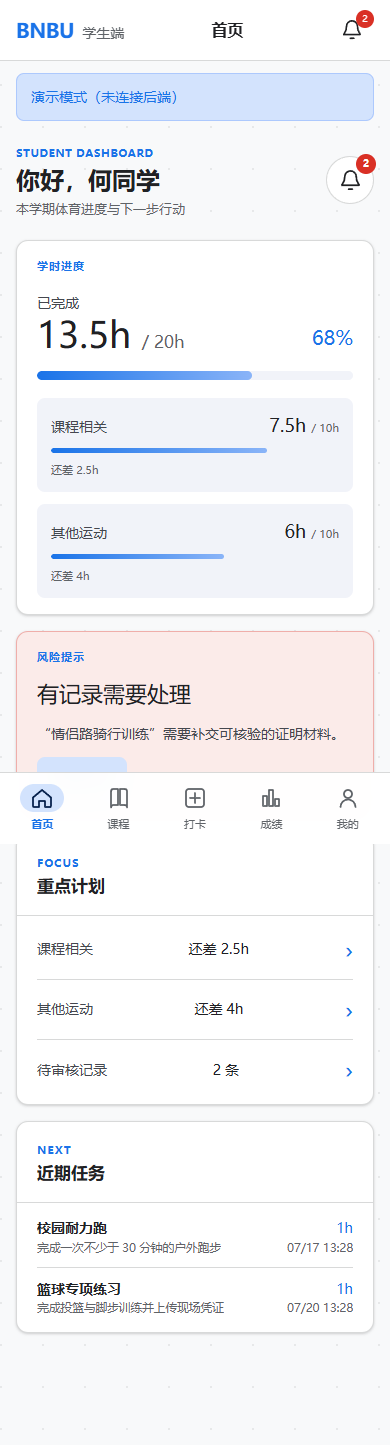
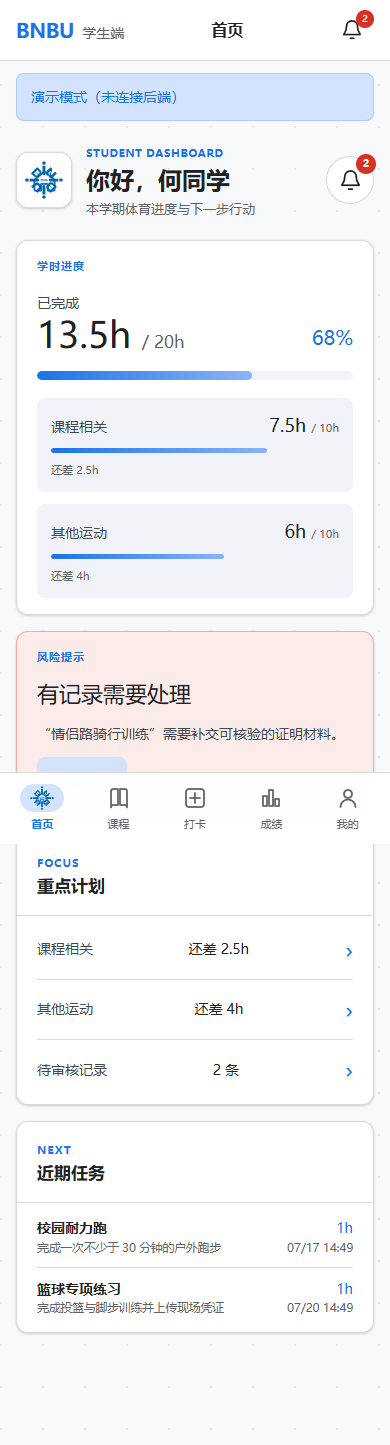
feat(student-web): add BNBU emblem to home

Changed region(s): [[0.0308, 0.0934, 0.6462, 0.1557], [0.8615, 0.8408, 0.8923, 0.872], [0.0923, 0.5294, 0.1231, 0.5606]]

diff --git a/frontend/student/styles.css b/frontend/student/styles.css
@@ -197,7 +197,13 @@ button { min-height: 44px; }
 
 .dashboard-page { gap: 20px; }
 .dashboard-header { display: flex; align-items: center; justify-content: space-between; gap: 16px; padding-top: 4px; }
+.dashboard-identity { display: flex; min-width: 0; align-items: center; gap: 14px; }
+.dashboard-identity > div { min-width: 0; }
 .dashboard-header h1 { margin-top: 3px; }
+.brand-mark { position: relative; display: grid; flex: 0 0 auto; place-items: center; overflow: hidden; }
+.brand-mark-fallback { position: absolute; inset: 25%; width: 50%; height: 50%; color: var(--primary); }
+.brand-mark-image { position: relative; z-index: 1; display: block; width: 100%; height: 100%; object-fit: contain; }
+.dashboard-emblem { width: 56px; height: 56px; padding: 8px; border: 1px solid var(--border); border-radius: 12px; background: var(--surface); box-shadow: var(--shadow); }
 .icon-button { position: relative; display: grid; flex: 0 0 48px; width: 48px; min-height: 48px; padding: 0; place-items: center; border: 1px solid var(--border); border-radius: 50%; color: var(--text); background: var(--surface); cursor: pointer; }
 .icon-button svg { width: 23px; height: 23px; }
 .notification-button span { position: absolute; top: -3px; right: -3px; display: grid; min-width: 20px; height: 20px; padding: 0 5px; place-items: center; border-radius: 99px; color: var(--on-danger); background: var(--danger); font-size: 10px; font-weight: 700; }
@@ -248,8 +254,10 @@ button { min-height: 44px; }
 }
 .nav-button { display: grid; place-items: center; align-content: center; gap: 3px; min-width: 0; color: var(--muted); border: 0; background: transparent; font-size: 11px; cursor: pointer; }
 .nav-icon { width: 24px; height: 24px; padding: 2px 10px; box-sizing: content-box; border-radius: 999px; }
+.nav-brand-mark { width: 24px; height: 24px; padding: 2px 10px; box-sizing: content-box; border-radius: 999px; opacity: .72; }
 .nav-button.is-active { color: var(--primary); font-weight: 600; }
-.nav-button.is-active .nav-icon { color: var(--on-primary-container); background: var(--primary-container); }
+.nav-button.is-active .nav-icon,.nav-button.is-active .nav-brand-mark { color: var(--on-primary-container); background: var(--primary-container); }
+.nav-button.is-active .nav-brand-mark { opacity: 1; }
 .nav-button:focus-visible { outline: 3px solid rgba(26,115,232,.28); outline-offset: -3px; }
 
 .auth-shell { display: grid; min-height: 100vh; background: var(--page); }

diff --git a/frontend/student/core/brand.js b/frontend/student/core/brand.js
@@ -1,0 +1,6 @@
+import { icon } from "./icons.js";
+
+export function brandMark({ className = "", decorative = false } = {}) {
+  const accessibility = decorative ? 'alt="" aria-hidden="true"' : 'alt="BNBU 校徽"';
+  return `<span class="brand-mark ${className}">${icon("home", "brand-mark-fallback")}<img class="brand-mark-image" src="./assets/bnbu-emblem.svg" ${accessibility}></span>`;
+}

diff --git a/frontend/student/views/dashboard.js b/frontend/student/views/dashboard.js
@@ -1,5 +1,6 @@
 import { escapeHtml, formatDate } from "../core/utils.js";
 import { icon } from "../core/icons.js";
+import { brandMark } from "../core/brand.js";
 
 const number = (value) => Number.isFinite(Number(value)) ? Number(value) : 0;
 const hours = (value) => `${number(value).toFixed(number(value) % 1 ? 1 : 0)}h`;
@@ -59,7 +60,10 @@ export function renderDashboard(state = {}) {
 
   return `<section class="page-stack dashboard-page">
     <header class="dashboard-header">
-      <div><span class="eyebrow">STUDENT DASHBOARD</span><h1 class="page-heading">你好，${escapeHtml(student.name || "同学")}</h1><p class="page-caption">本学期体育进度与下一步行动</p></div>
+      <div class="dashboard-identity">
+        ${brandMark({ className: "dashboard-emblem" })}
+        <div><span class="eyebrow">STUDENT DASHBOARD</span><h1 class="page-heading">你好，${escapeHtml(student.name || "同学")}</h1><p class="page-caption">本学期体育进度与下一步行动</p></div>
+      </div>
       <button class="icon-button notification-button" type="button" data-action="open-notifications" aria-label="打开通知">
         ${icon("notifications")}${unread ? `<span>${unread}</span>` : ""}
       </button>

diff --git a/frontend/student/views/shell.js b/frontend/student/views/shell.js
@@ -1,11 +1,12 @@
 import { NAV_ITEMS } from "../core/constants.js";
 import { escapeHtml } from "../core/utils.js";
 import { icon } from "../core/icons.js";
+import { brandMark } from "../core/brand.js";
 
 export function renderBottomNav(active) {
   return `<nav class="bottom-nav" aria-label="学生端主导航">${NAV_ITEMS.map((item) => `
     <button class="nav-button ${active === item.id ? "is-active" : ""}" type="button" data-route="${item.route}" aria-current="${active === item.id ? "page" : "false"}">
-      ${icon(item.icon, "nav-icon")}<span>${item.label}</span>
+      ${item.id === "home" ? brandMark({ className: "nav-brand-mark", decorative: true }) : icon(item.icon, "nav-icon")}<span>${item.label}</span>
     </button>`).join("")}</nav>`;
 }
 

diff --git a/docs/superpowers/plans/2026-07-14-bnbu-emblem-home.md b/docs/superpowers/plans/2026-07-14-bnbu-emblem-home.md
@@ -1,0 +1,85 @@
+# BNBU Emblem Home Implementation Plan
+
+> **For agentic workers:** REQUIRED SUB-SKILL: Use superpowers:subagent-driven-development (recommended) or superpowers:executing-plans to implement this plan task-by-task. Steps use checkbox (`- [ ]`) syntax for tracking.
+
+**Goal:** Add the official BNBU emblem to the student dashboard greeting and the bottom Home destination.
+
+**Architecture:** Convert the existing Android vector drawable into one static web SVG under the student assets directory. Render it through a small shared brand-mark helper that layers the emblem over the existing Home icon, so the same markup and fallback behavior are used by both placements.
+
+**Tech Stack:** Vanilla JavaScript ES modules, semantic HTML, CSS, Node.js test runner, Playwright.
+
+---
+
+### Task 1: Specify the shared brand mark
+
+**Files:**
+- Create: `frontend/student/assets/bnbu-emblem.svg`
+- Create: `frontend/student/core/brand.js`
+- Modify: `frontend/student/student-test.mjs`
+
+- [x] **Step 1: Write the failing rendering tests**
+
+Add imports for `brandMark` and assertions that `brandMark({ decorative: false })` includes `assets/bnbu-emblem.svg`, `alt="BNBU 校徽"`, and a Home SVG fallback, while the decorative variant uses an empty `alt` and `aria-hidden="true"`.
+
+- [x] **Step 2: Run the test to verify RED**
+
+Run: `node --test frontend/student/student-test.mjs`
+
+Expected: FAIL because `frontend/student/core/brand.js` does not exist.
+
+- [x] **Step 3: Add the official vector and minimal helper**
+
+Convert the Android drawable at `C:/Users/Eric-/AppData/Local/Temp/BNBU-Sports-Android-reference-20260714/app/src/main/res/drawable/bnbu_emblem.xml` into a standard SVG with `viewBox="0 0 83 83"`, `fill="#0166A4"`, `fill-rule="evenodd"`, and the Android `pathData` preserved exactly. Implement:
+
+```js
+import { icon } from "./icons.js";
+
+export function brandMark({ className = "", decorative = false } = {}) {
+  const label = decorative ? 'alt="" aria-hidden="true"' : 'alt="BNBU 校徽"';
+  return `<span class="brand-mark ${className}">${icon("home", "brand-mark-fallback")}<img class="brand-mark-image" src="./assets/bnbu-emblem.svg" ${label}></span>`;
+}
+```
+
+- [x] **Step 4: Run the test to verify GREEN**
+
+Run: `node --test frontend/student/student-test.mjs`
+
+Expected: all tests pass.
+
+### Task 2: Place and style the emblem
+
+**Files:**
+- Modify: `frontend/student/views/dashboard.js`
+- Modify: `frontend/student/views/shell.js`
+- Modify: `frontend/student/styles.css`
+- Modify: `frontend/student/student-test.mjs`
+- Modify: `frontend/student/student-browser.cjs`
+
+- [x] **Step 1: Write failing placement tests**
+
+Assert that dashboard markup contains `dashboard-identity` and `dashboard-emblem`, that the Home dock contains `nav-brand-mark`, and that browser acceptance sees both `.dashboard-emblem .brand-mark-image` and `.nav-button[aria-current="page"] .nav-brand-mark` with non-zero dimensions.
+
+- [x] **Step 2: Run the tests to verify RED**
+
+Run: `node --test frontend/student/student-test.mjs`
+
+Expected: FAIL because the two placements do not exist.
+
+- [x] **Step 3: Render and style the two placements**
+
+Import `brandMark` into both views. Wrap the dashboard emblem and greeting copy in `.dashboard-identity`; render `brandMark({ className: "dashboard-emblem" })`. In `renderBottomNav`, render `brandMark({ className: "nav-brand-mark", decorative: true })` for `item.id === "home"`, leaving the other icon calls unchanged. Add shared overlay/fallback styling plus 56px dashboard and 24px navigation size rules.
+
+- [x] **Step 4: Run automated verification**
+
+Run:
+
+```text
+npm run test:student
+npm run test:student:browser
+```
+
+Expected: unit/static checks pass and Playwright reports acceptance passed for 390×844, 768×1024, and 1440×900.
+
+- [x] **Step 5: Inspect acceptance screenshots and commit**
+
+Run the browser suite with `UPDATE_ACCEPTANCE=1`, inspect `docs/acceptance/student-web/mobile-home.png` and `docs/acceptance/student-web/desktop-home.png`, then commit only the brand asset, view/CSS/test changes, updated screenshots, and these design/plan documents.

diff --git a/docs/plans/2026-07-14-bnbu-emblem-design.md b/docs/plans/2026-07-14-bnbu-emblem-design.md
@@ -1,0 +1,21 @@
+# BNBU 校徽首页落位设计
+
+## 目标
+
+在学生网页版首页复用 Android 端已有的 BNBU 官方校徽，并与用户提供的移动端参考图保持一致：校徽出现在首页问候区左侧，同时作为底部“首页”导航的识别图标。
+
+## 已确认方案
+
+- 资产来源：`BNBU-Sports-Android-reference-20260714/app/src/main/res/drawable/bnbu_emblem.xml`。保留原始 `83 × 83` viewBox、路径数据与官方品牌色 `#0166A4`，只做 Android Vector Drawable 到标准 SVG 的格式转换。
+- 问候区：在姓名与学期说明左侧放置 56px 校徽容器。容器采用当前页面的 surface、细边框和小圆角，不改动校徽本体。
+- 底部导航：“首页”使用校徽，其他四个标签保持现有 Material 图标。校徽始终可见；激活态沿用现有浅蓝色胶囊背景，非激活态降低透明度。
+- 兜底：校徽图片下方保留现有 home SVG；如果本地 SVG 资源加载失败，仍能显示首页图标。
+- 无障碍：首页问候区的校徽提供“BNBU 校徽”替代文本；底部图标视为装饰，导航按钮仍由“首页”文本提供名称。
+
+## 验收标准
+
+1. 首页问候区能看到清晰、不拉伸的蓝色 BNBU 校徽。
+2. 底部“首页”标签显示同一校徽，激活态背景与其余导航交互保持一致。
+3. 390×844、768×1024、1440×900 三种视口无水平溢出，深色模式下校徽容器仍有足够对比度。
+4. 现有学生端单元测试、静态烟测和 Playwright 浏览器验收全部通过。
+